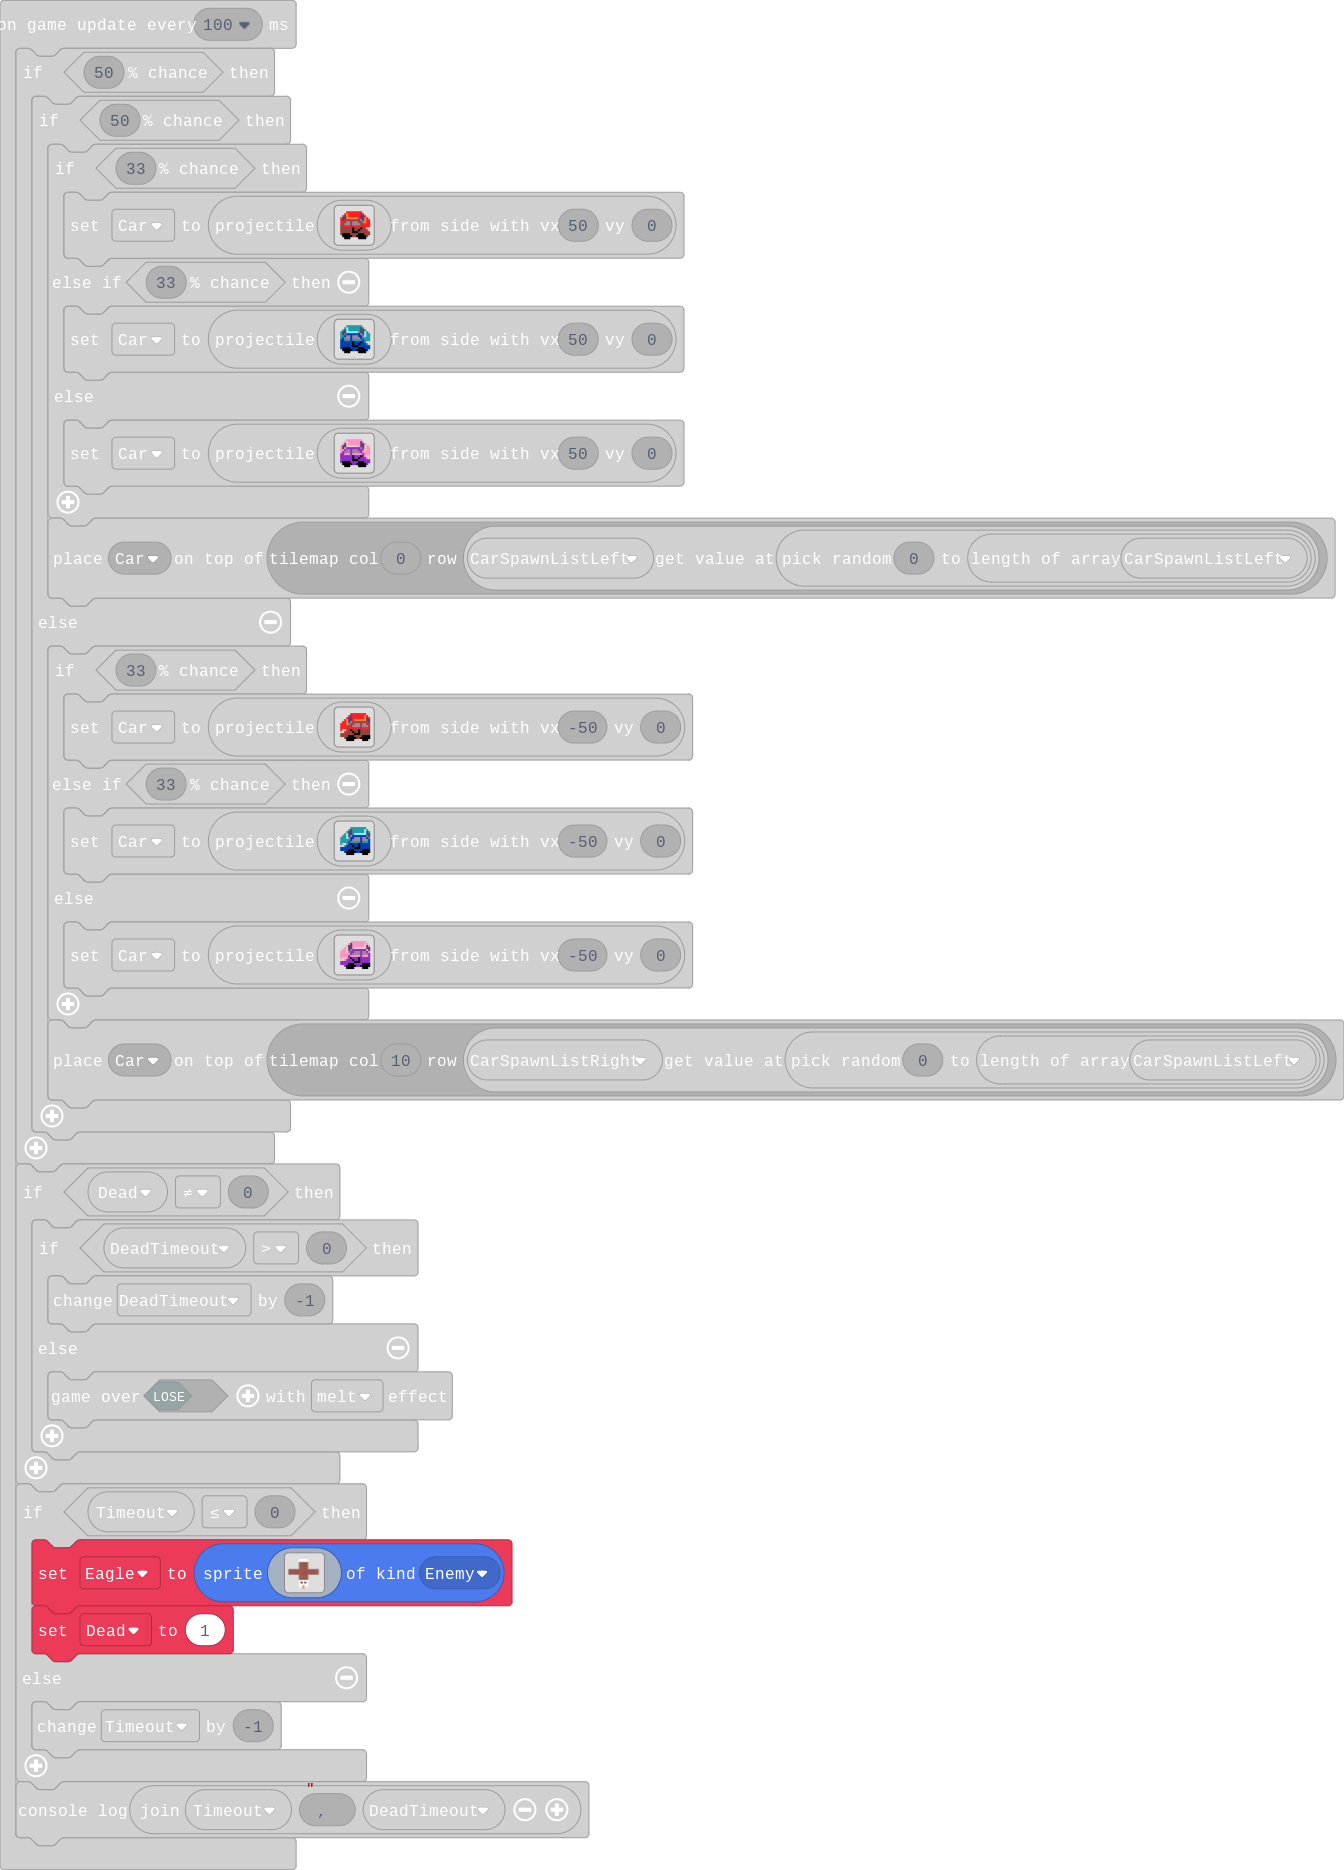
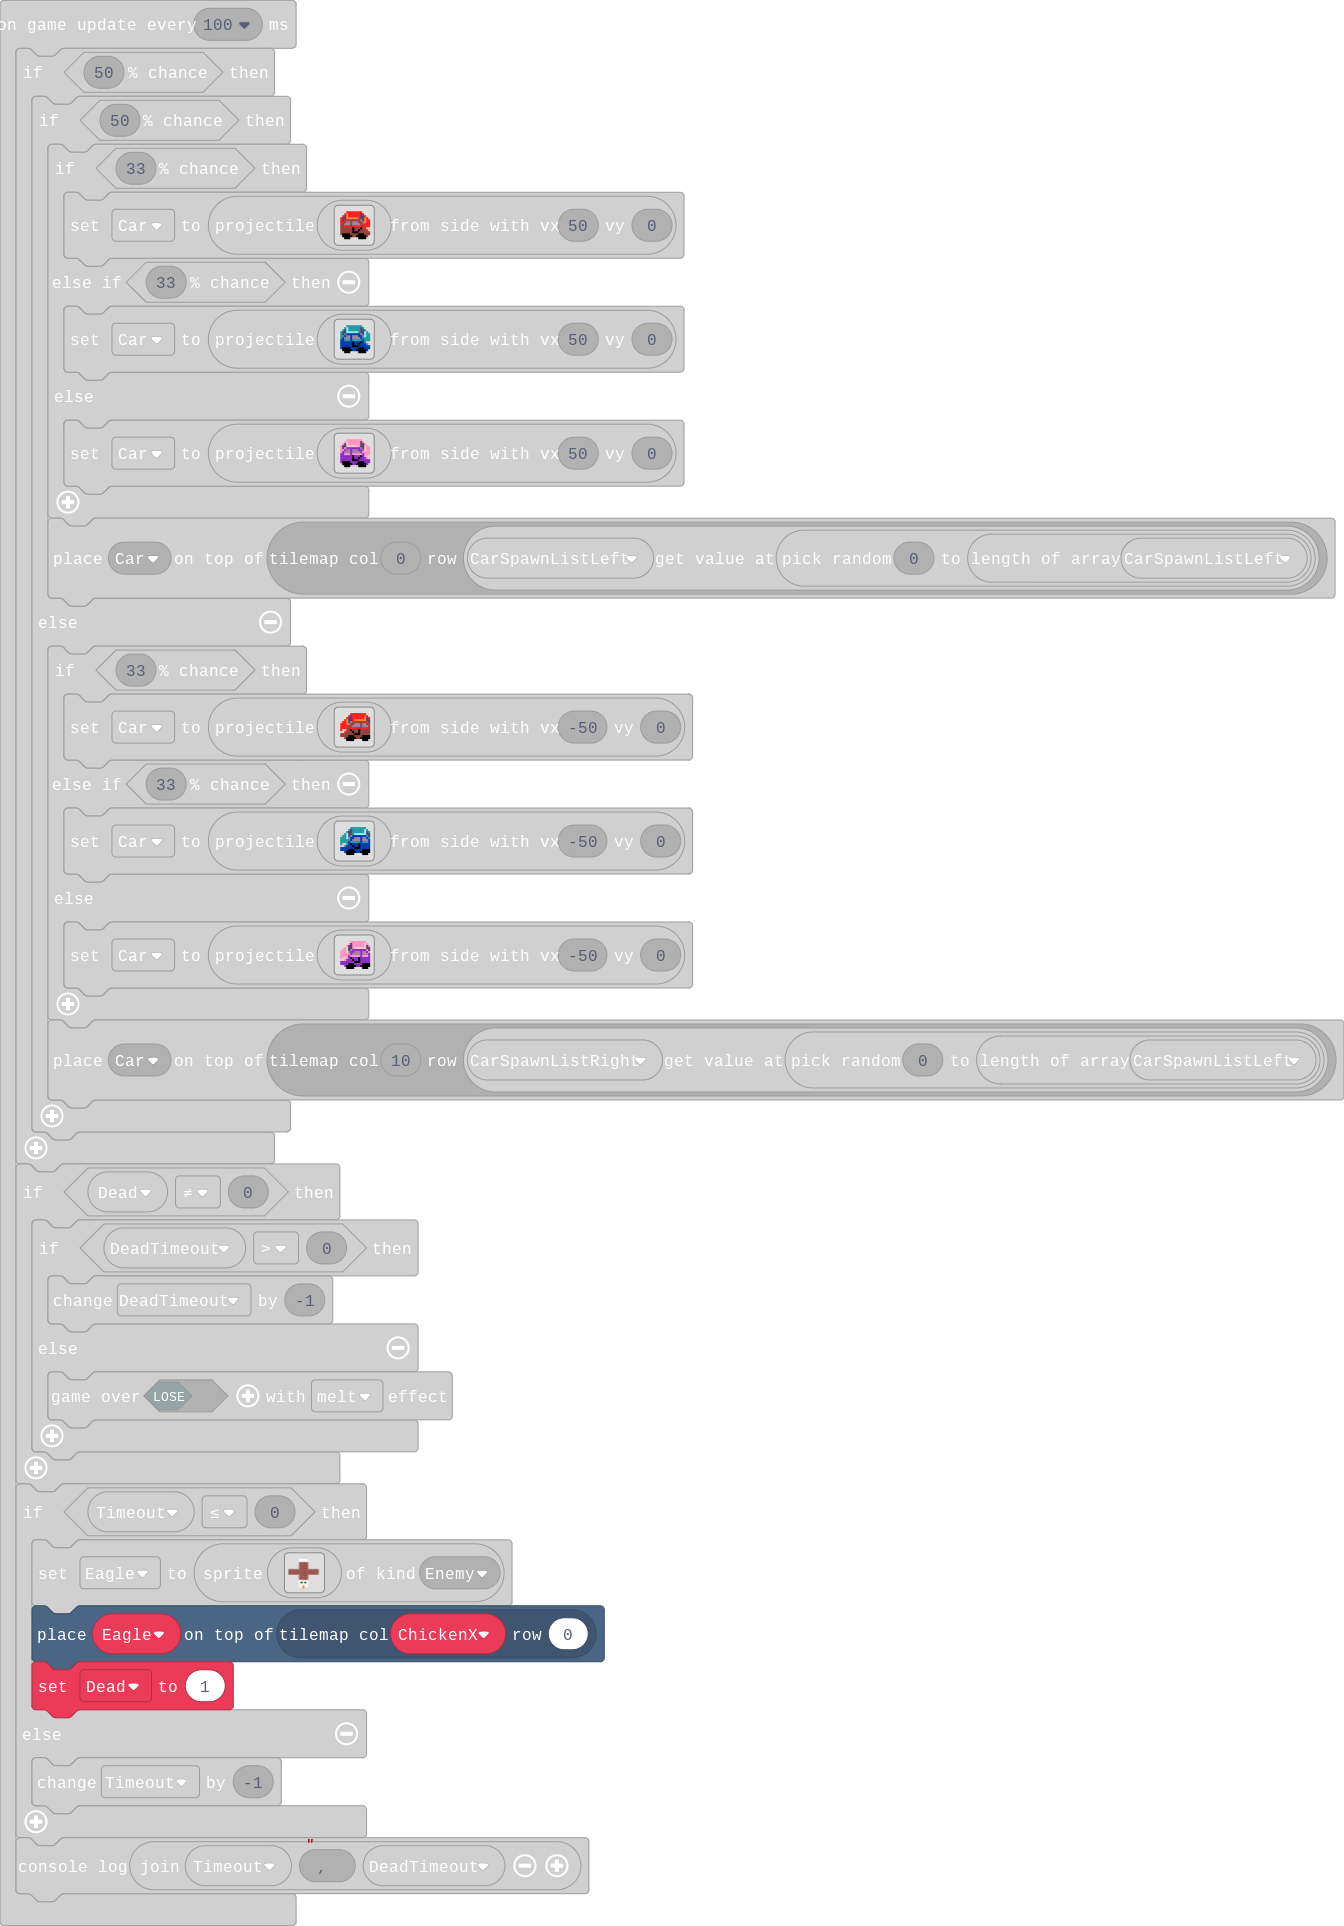
Update main.blocks, main.ts

Changed region(s): [[0.0, 0.0, 1.0, 0.9925]]

diff --git a/main.ts b/main.ts
@@ -438,6 +438,7 @@ e e e e e e e e e e e e e e e e e .
 . . . . . . 1 1 4 1 1 . . . . . . . 
 . . . . . . . . 4 . . . . . . . . . 
 `, SpriteKind.Enemy)
+        tiles.placeOnTile(Eagle, tiles.getTileLocation(ChickenX, 0))
         Dead = 1
     } else {
         Timeout += -1
